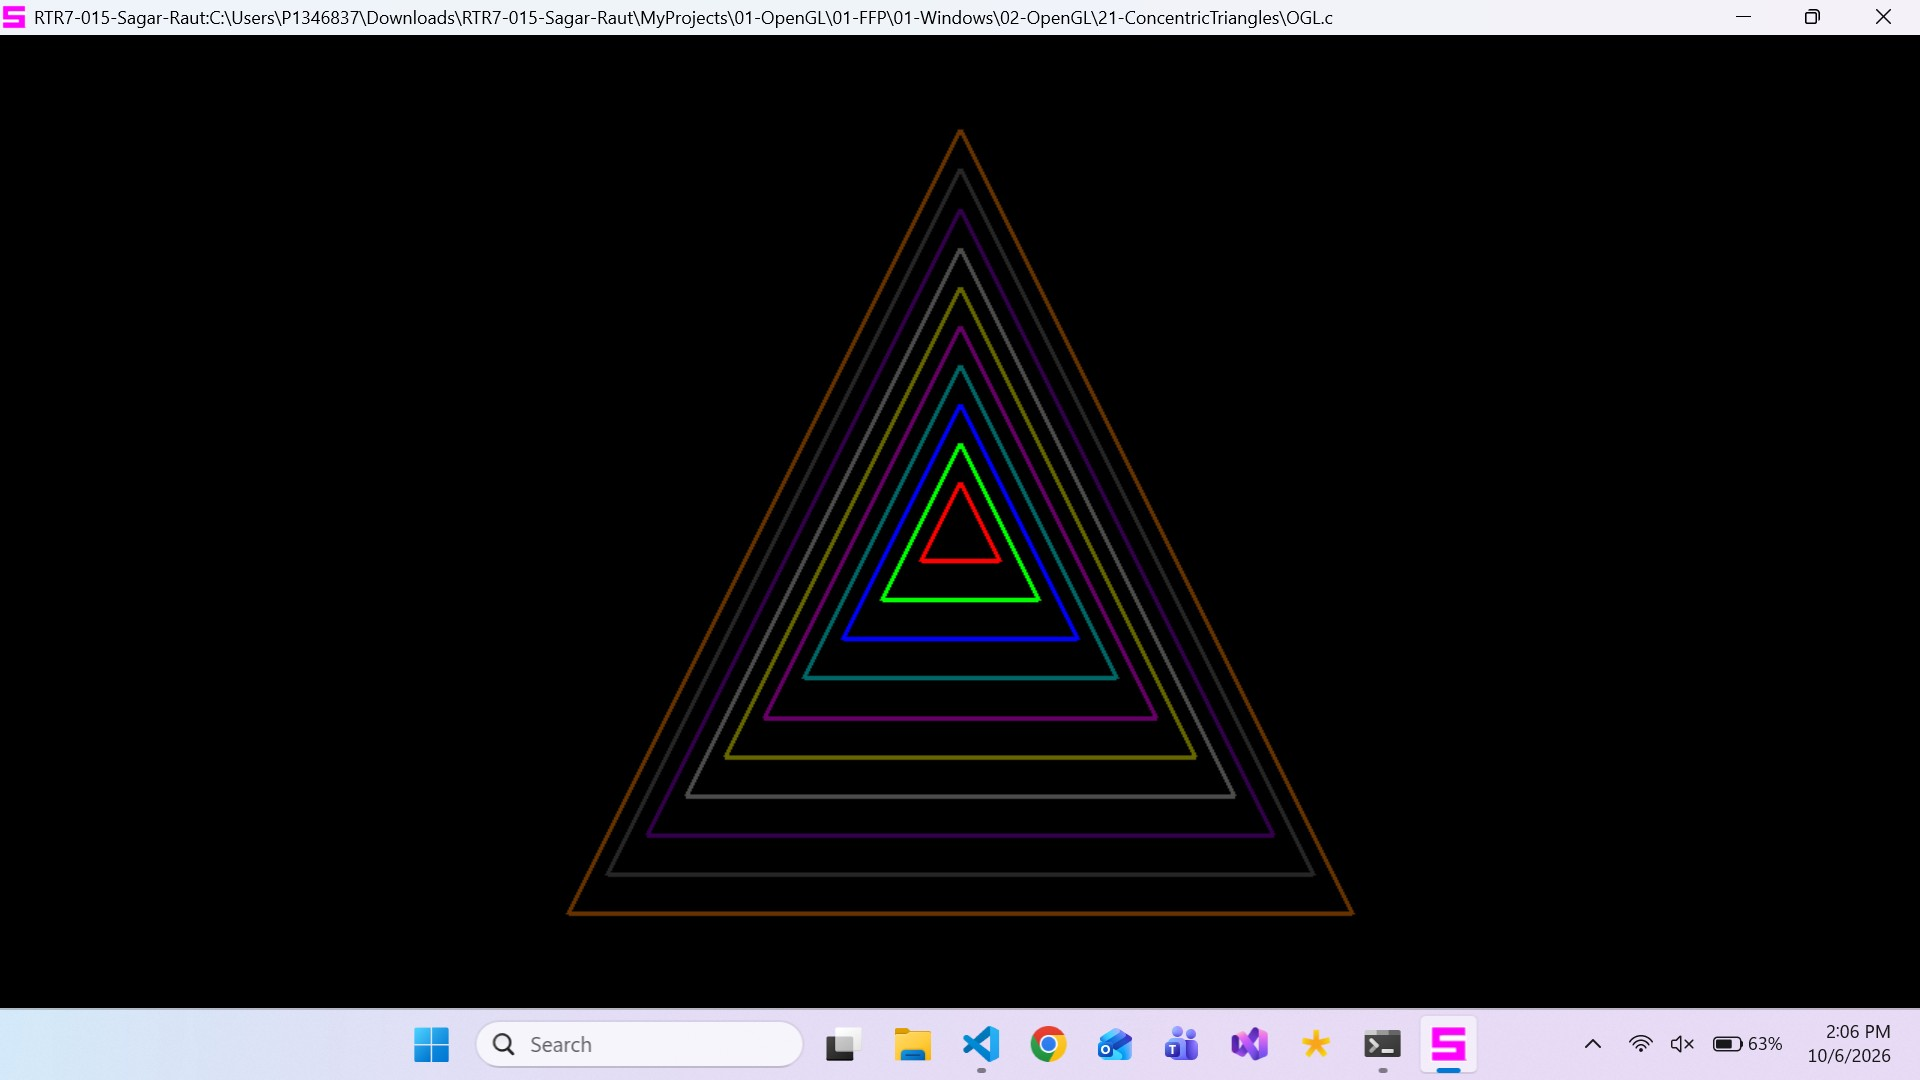
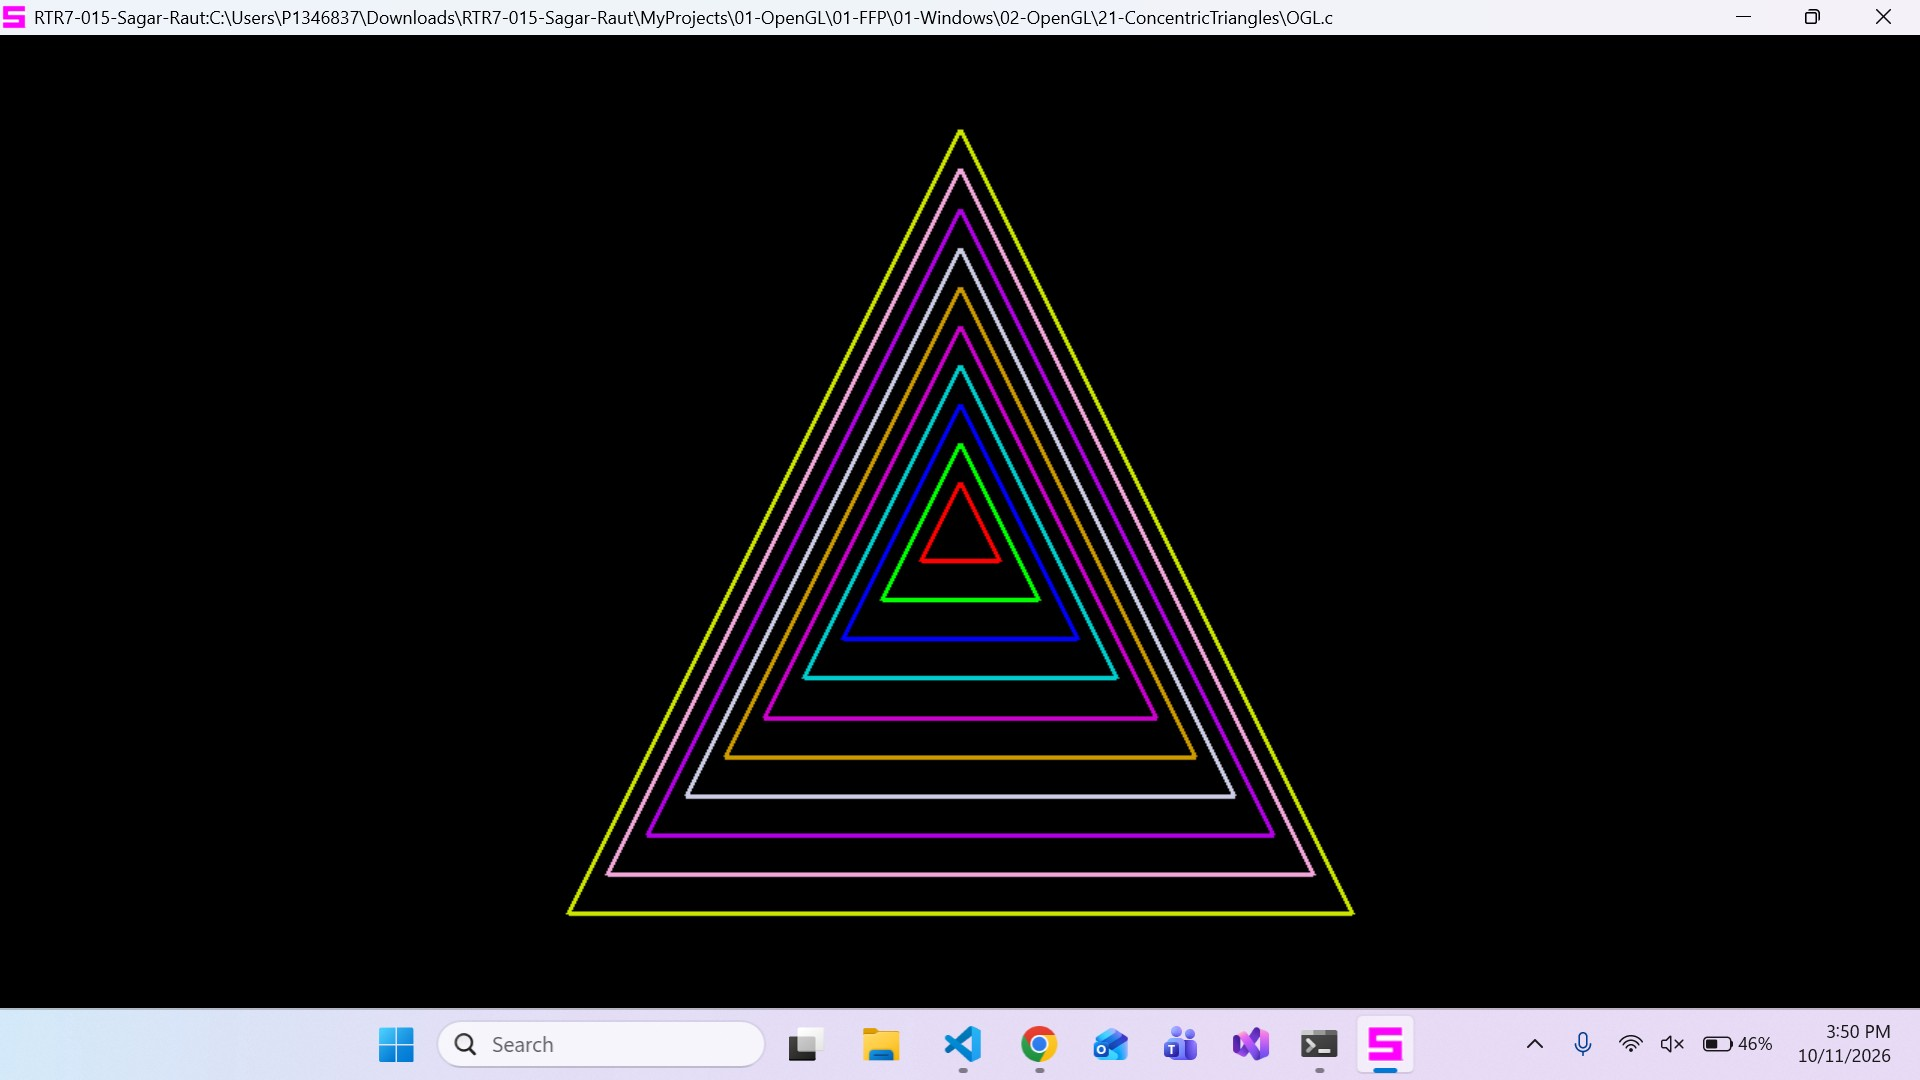
Concentric Triangles code updated

diff --git a/MyProjects/01-OpenGL/01-FFP/01-Windows/02-OpenGL/21-ConcentricTriangles/OGL.c b/MyProjects/01-OpenGL/01-FFP/01-Windows/02-OpenGL/21-ConcentricTriangles/OGL.c
@@ -440,13 +440,13 @@ void render(void)
 	renderTriangles(0.2f, 0.2f, 0.0f, 1.0f, 0.0f);
 	renderTriangles(0.3f, 0.3f, 0.0f, 0.0f, 1.0f);
 
-	renderTriangles(0.4f, 0.4f, 0.0f, 0.4f, 0.4f);
-	renderTriangles(0.5f, 0.5f, 0.4f, 0.0f, 0.4f);
-	renderTriangles(0.6f, 0.6f, 0.4f, 0.4f, 0.0f);
-	renderTriangles(0.7f, 0.7f, 0.3f, 0.3f, 0.3f);
-	renderTriangles(0.8f, 0.8f, 0.2f, 0.0f, 0.3f);
-	renderTriangles(0.9f, 0.9f, 0.15f, 0.15f, 0.15f);
-	renderTriangles(1.0f, 1.0f, 0.4f, 0.2f, 0.0f);
+	renderTriangles(0.4f, 0.4f, 0.0f, 0.8f, 0.8f);
+	renderTriangles(0.5f, 0.5f, 0.8f, 0.0f, 0.8f);
+	renderTriangles(0.6f, 0.6f, 0.8f, 0.6f, 0.0f);
+	renderTriangles(0.7f, 0.7f, 0.8f, 0.8f, 0.9f);
+	renderTriangles(0.8f, 0.8f, 0.7f, 0.0f, 0.9f);
+	renderTriangles(0.9f, 0.9f, 0.95f, 0.65f, 0.85f);
+	renderTriangles(1.0f, 1.0f, 0.8f, 0.9f, 0.0f);
 
 	// glColor3f(0.0f, 0.4f, 0.4f);	// Dark Cyan (Dark Teal)
 	// glColor3f(0.4f, 0.0f, 0.4f);	// Dark Magenta (Dark Plum)
